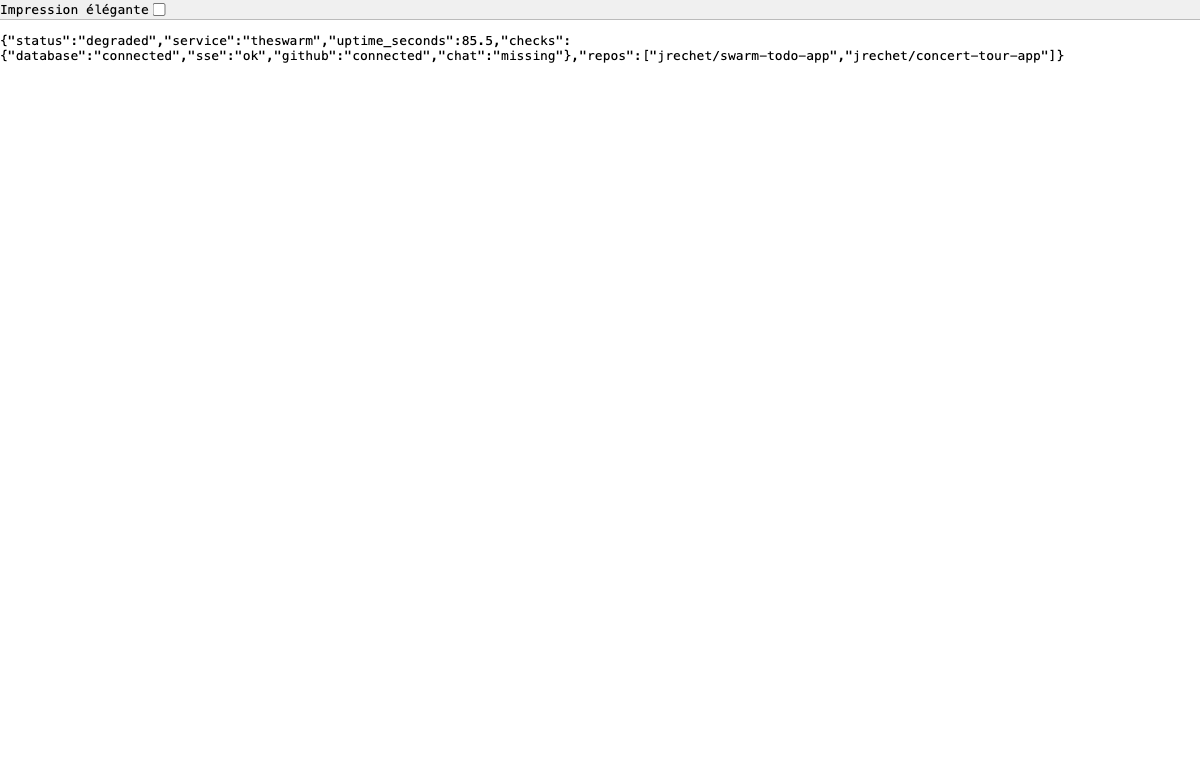
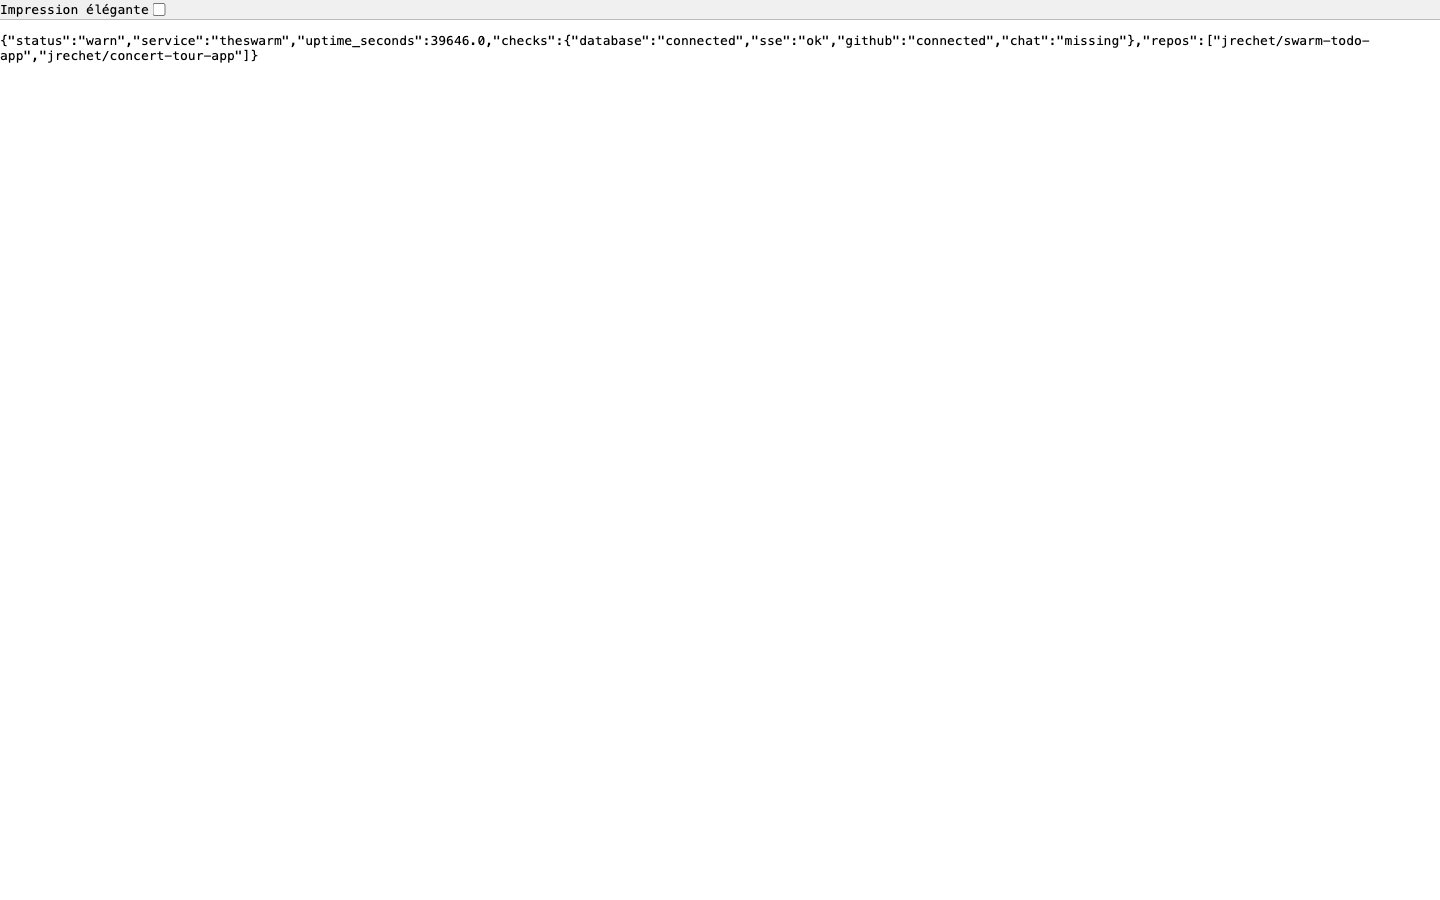
docs: refresh dashboard screenshots; widen /health E2E to tri-state
- Update demo-dashboard.png, demo-demos.png, demo-health.png to reflect
  P1.9 (tri-state /health), P2.10 (demos filter), P2.12 (card thumbnails),
  P3.15 (sparklines). Add demo-metrics.png for the new /metrics endpoint.
- Sync opus7.md media inventory to point at the refreshed PNGs.
- Loosen TestHealth.test_health_returns_ok to accept "warn" and "error"
  alongside "ok"/"degraded" so the E2E suite tracks the P1.9 contract.
- Ignore .idea/ and .playwright-mcp/ scratch directories.

Changed region(s): [[0.0, 0.0, 0.9558, 0.0901]]

diff --git a/tests/e2e/test_dashboard_e2e.py b/tests/e2e/test_dashboard_e2e.py
@@ -301,7 +301,7 @@ class TestHealth:
         response = page.request.get(f"{BASE_URL}/health")
         assert response.ok
         data = response.json()
-        assert data["status"] in ("ok", "degraded")
+        assert data["status"] in ("ok", "warn", "error", "degraded")
         assert data["service"] == "theswarm"
 
     def test_health_uptime(self, server, page: Page):

diff --git a/opus7.md b/opus7.md
@@ -54,18 +54,20 @@
 
 ## Media inventory
 
-### Committed screenshots (repo root)
+### Current screenshots (refreshed for this session's work)
 
-- [`demo-dashboard.png`](./demo-dashboard.png) — Main dashboard
+- [`demo-dashboard.png`](./demo-dashboard.png) — Dashboard with SVG sparklines under "Cost 7d" and "Cycles 7d" (P3.15)
+- [`demo-demos.png`](./demo-demos.png) — Demos browse with project/since filter form (P2.10) and card thumbnails (P2.12)
+- [`demo-health.png`](./demo-health.png) — `/health` returning `status: "warn"` tri-state when chat integration is missing (P1.9)
+- [`demo-metrics.png`](./demo-metrics.png) — `/metrics` Prometheus text output: uptime, projects, cycles by status, cost/tokens (P3.14)
+
+### Other screenshots (still current, unchanged this session)
+
 - [`dashboard-with-data.png`](./dashboard-with-data.png) — Dashboard populated via `dev-seed`
 - [`demo-projects.png`](./demo-projects.png) — Projects list
 - [`demo-cycles.png`](./demo-cycles.png) — Cycles list
-- [`demo-demos.png`](./demo-demos.png) — Demos browse page (pre-filter)
 - [`demo-features.png`](./demo-features.png) — `/features/` landing
-- [`demo-api-features.png`](./demo-api-features.png) — API docs
-- [`demo-health.png`](./demo-health.png) — `/health` JSON (pre-tristate)
-
-> **Note:** These screenshots were captured before P1.9 (tri-state health), P2.10–2.13 (filters, thumbnails, timeline), and P3.15 (sparklines) landed. Re-capture after running the regenerate steps below.
+- [`demo-api-features.png`](./demo-api-features.png) — API docs surface
 
 ### Regenerate demo videos
 
